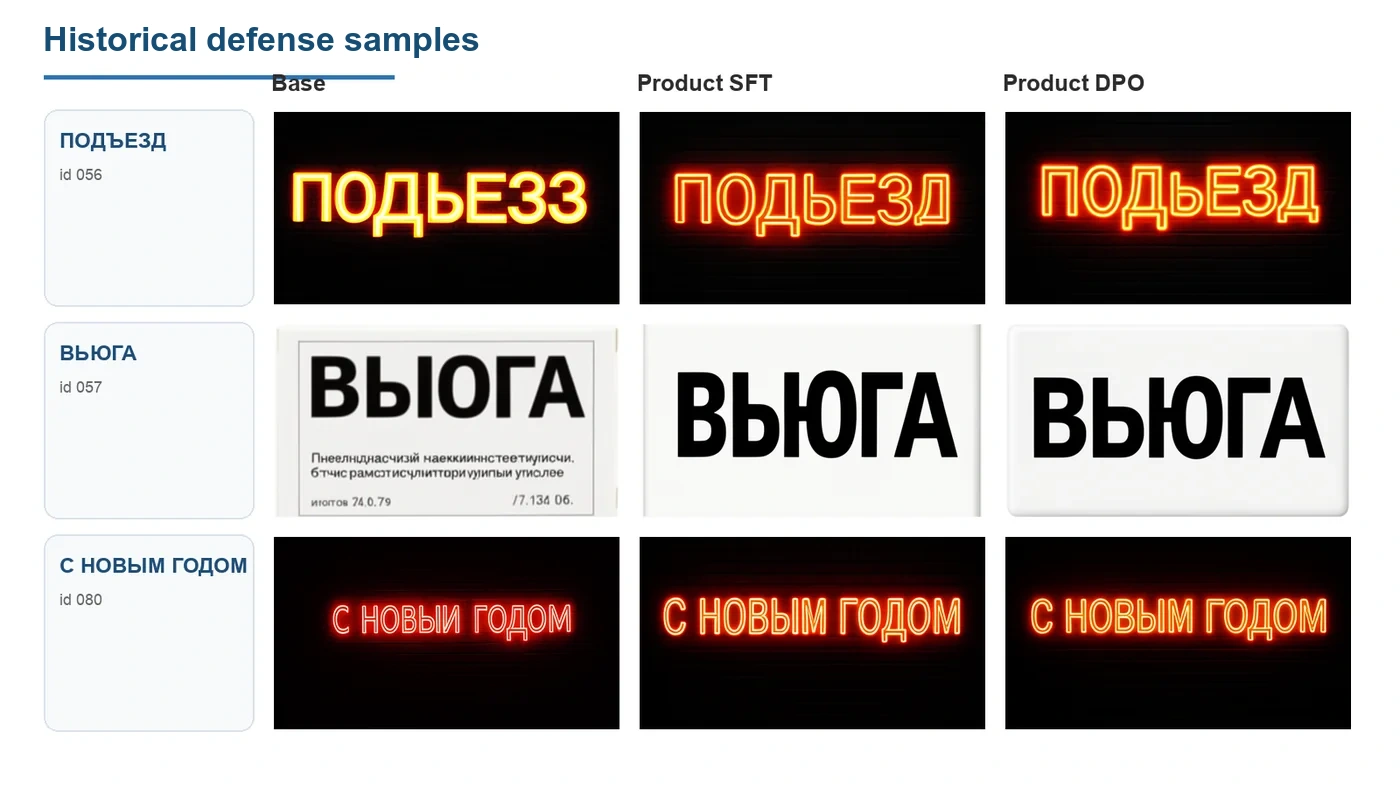
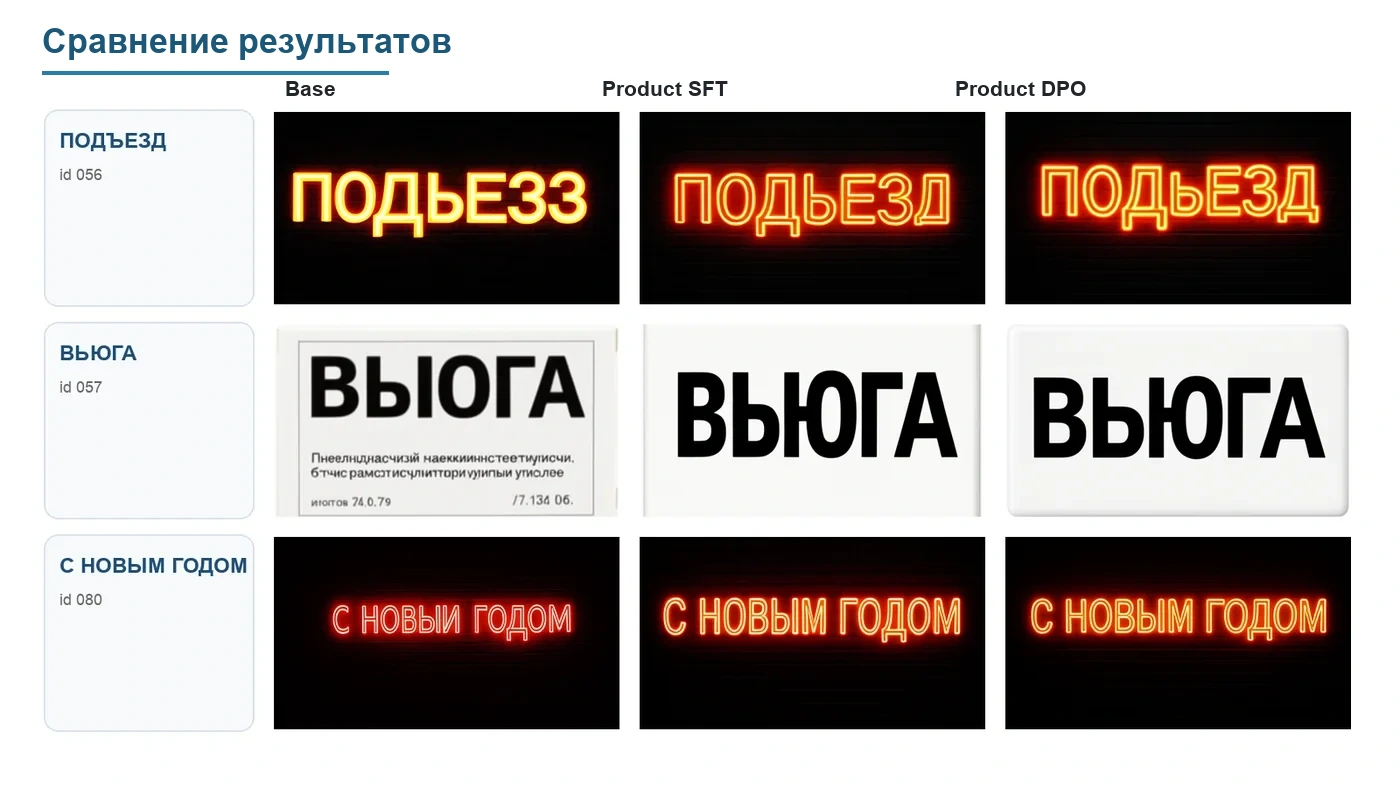
docs: sharpen project narrative and rename product metric

Changed region(s): [[0.0307, 0.0305, 0.3379, 0.122], [0.6757, 0.0915, 0.8293, 0.122], [0.43, 0.0915, 0.5529, 0.122]]

diff --git a/tests/test_runtime_preflight.py b/tests/test_runtime_preflight.py
@@ -382,7 +382,7 @@ def test_product_training_preflight_requires_canonical_thesis_formula(
     monkeypatch: pytest.MonkeyPatch,
 ) -> None:
     from scripts import preflight_runtime
-    from src.evaluation.reward_interface import ProductScoreFormula, thesis_product_formula
+    from src.evaluation.reward_interface import ProductScoreFormula, vlm_ocr_product_formula
     from src.runtime.manifests import create_run_manifest
     from src.scoring.pipeline import CANONICAL_SCORE_COLUMNS, write_score_schema_sidecar
 
@@ -443,7 +443,7 @@ def test_product_training_preflight_requires_canonical_thesis_formula(
     }
     write_score_schema_sidecar(
         scores,
-        formula=thesis_product_formula(),
+        formula=vlm_ocr_product_formula(),
         source_manifest_paths=(str(source_manifest.manifest_path),),
         primary_score="product",
         execution_metadata=execution,
@@ -471,7 +471,7 @@ def test_product_training_preflight_requires_canonical_thesis_formula(
     blocked = preflight_runtime.build_preflight_report(args)
 
     assert blocked["artifacts"]["ok"] is False
-    assert any("thesis_vlm_ocr_product_v1" in error for error in blocked["blocking_errors"])
+    assert any("vlm_ocr_product_v1" in error for error in blocked["blocking_errors"])
 
     neutral_scores = scores.with_name("scores.csv")
     scores.replace(neutral_scores)
@@ -489,11 +489,11 @@ def test_product_training_preflight_requires_canonical_thesis_formula(
     neutral_blocked = preflight_runtime.build_preflight_report(neutral_args)
 
     assert neutral_blocked["artifacts"]["ok"] is False
-    assert any("thesis_vlm_ocr_product_v1" in error for error in neutral_blocked["blocking_errors"])
+    assert any("vlm_ocr_product_v1" in error for error in neutral_blocked["blocking_errors"])
 
 
 def test_product_detection_reads_materialized_artifact_metadata(tmp_path: Path) -> None:
-    from scripts.preflight_runtime import _requires_thesis_product
+    from scripts.preflight_runtime import _requires_vlm_ocr_product
 
     scores = tmp_path / "outputs" / "generated" / "scores.csv"
     selected = tmp_path / "outputs" / "generated" / "selected_samples.jsonl"
@@ -518,7 +518,7 @@ def test_product_detection_reads_materialized_artifact_metadata(tmp_path: Path) 
         score_column="score",
     )
 
-    assert _requires_thesis_product(
+    assert _requires_vlm_ocr_product(
         config,
         {"scores_csv": scores, "selected_samples": selected},
     )
@@ -528,13 +528,13 @@ def test_product_detection_reads_materialized_artifact_metadata(tmp_path: Path) 
         json.dumps(
             {
                 "primary_score": "vlm",
-                "formula": {"name": "thesis_vlm_ocr_product_v1"},
+                "formula": {"name": "vlm_ocr_product_v1"},
             }
         ),
         encoding="utf-8",
     )
 
-    assert not _requires_thesis_product(config, {"scores_csv": scores})
+    assert not _requires_vlm_ocr_product(config, {"scores_csv": scores})
 
 
 @pytest.mark.parametrize("stage", ["sft", "dpo"])

diff --git a/tests/test_scoring_pipeline_contracts.py b/tests/test_scoring_pipeline_contracts.py
@@ -72,11 +72,11 @@ def test_pipeline_builds_canonical_row_with_product_missing_and_legacy_fields():
 
 
 def test_pipeline_primary_score_tracks_selected_reward() -> None:
-    from src.evaluation.reward_interface import thesis_product_formula
+    from src.evaluation.reward_interface import vlm_ocr_product_formula
     from src.scoring.pipeline import build_canonical_score_row
 
     evidence = {"score_vlm": 0.8, "score_ocr": 0.75, "ocr_detected": "ТЕСТ"}
-    formula = thesis_product_formula()
+    formula = vlm_ocr_product_formula()
 
     vlm_row = build_canonical_score_row(
         sample_id="p",
@@ -264,7 +264,7 @@ def test_score_images_main_builds_config_and_delegates_to_pipeline(monkeypatch, 
             vlm_model_revision=None,
             vlm_device="cuda",
             ocr_device="cpu",
-            product_formula="thesis",
+            product_formula="product",
             entropy_lambda=1.5,
             batch_size=1,
             resume=True,
@@ -304,12 +304,12 @@ def test_scoring_config_rejects_noop_batching_and_invalid_shards(tmp_path):
 
 
 def test_resume_rejects_formula_or_source_manifest_drift(tmp_path):
-    from src.evaluation.reward_interface import thesis_product_formula
+    from src.evaluation.reward_interface import vlm_ocr_product_formula
     from src.scoring.pipeline import _validate_resume_sidecar, write_score_schema_sidecar
 
     output = tmp_path / "scores.csv"
     output.write_text("id\n", encoding="utf-8")
-    formula = thesis_product_formula(scorer_versions={"vlm": "qwen@a"})
+    formula = vlm_ocr_product_formula(scorer_versions={"vlm": "qwen@a"})
     write_score_schema_sidecar(
         output,
         formula=formula,
@@ -321,7 +321,7 @@ def test_resume_rejects_formula_or_source_manifest_drift(tmp_path):
     with pytest.raises(ValueError, match="does not match"):
         _validate_resume_sidecar(
             output,
-            formula=thesis_product_formula(scorer_versions={"vlm": "qwen@b"}),
+            formula=vlm_ocr_product_formula(scorer_versions={"vlm": "qwen@b"}),
             primary_score="product",
             source_manifest_paths=("runs/a/manifest.json",),
             shard_idx=0,

diff --git a/scripts/preflight_runtime.py b/scripts/preflight_runtime.py
@@ -16,7 +16,7 @@ from src.runtime.config_io import RuntimeConfigError, load_stage_config
 from src.runtime.manifests import ManifestError, load_run_manifest
 from src.runtime.paths import resolve_stage_paths
 
-THESIS_PRODUCT_FORMULA_NAME = "thesis_vlm_ocr_product_v1"
+VLM_OCR_PRODUCT_FORMULA_NAME = "vlm_ocr_product_v1"
 
 CLI_STAGES = (
     "generate",
@@ -272,7 +272,7 @@ def _check_artifacts(
     else:
         report = validate_artifacts(HELPER_STAGES.get(stage, stage), paths)
     payload = _artifact_report_to_json(report)
-    if stage in {"sft", "dpo"} and config is not None and _requires_thesis_product(config, paths):
+    if stage in {"sft", "dpo"} and config is not None and _requires_vlm_ocr_product(config, paths):
         product_report = validate_artifacts(
             "evaluation_scores",
             {"scores_csv": paths["scores_csv"]},
@@ -296,7 +296,7 @@ def _check_artifacts(
     return payload
 
 
-def _requires_thesis_product(config: Any, paths: dict[str, Path]) -> bool:
+def _requires_vlm_ocr_product(config: Any, paths: dict[str, Path]) -> bool:
     experiment_name = str(getattr(config, "experiment_name", "")).casefold()
     scores_name = Path(str(getattr(config, "scores_csv", ""))).stem.casefold()
     score_column = str(getattr(config, "score_column", "")).casefold()
@@ -383,8 +383,8 @@ def _product_formula_errors(scores_csv: Path) -> list[str]:
     errors: list[str] = []
     if payload.get("primary_score") != "product":
         errors.append("Product training requires primary_score='product'")
-    if not isinstance(formula, dict) or formula.get("name") != THESIS_PRODUCT_FORMULA_NAME:
-        errors.append(f"Product training requires formula {THESIS_PRODUCT_FORMULA_NAME!r}")
+    if not isinstance(formula, dict) or formula.get("name") != VLM_OCR_PRODUCT_FORMULA_NAME:
+        errors.append(f"Product training requires formula {VLM_OCR_PRODUCT_FORMULA_NAME!r}")
         return errors
     if formula.get("aggregation") != "weighted_product":
         errors.append("Product training requires weighted_product aggregation")

diff --git a/src/evaluation/reward_interface.py b/src/evaluation/reward_interface.py
@@ -18,7 +18,7 @@ from typing import Any, Literal
 SCHEMA_VERSION = "reward-result/v1"
 METADATA_SCHEMA_VERSION = "reward-score-metadata/v1"
 DEFAULT_PRODUCT_FORMULA_NAME = "vlm_ocr_cer_entropy_exact_product_v1"
-THESIS_PRODUCT_FORMULA_NAME = "thesis_vlm_ocr_product_v1"
+VLM_OCR_PRODUCT_FORMULA_NAME = "vlm_ocr_product_v1"
 
 DEFAULT_PRODUCT_WEIGHTS: dict[str, float] = {
     "score_vlm": 0.35,
@@ -142,14 +142,14 @@ class ProductScoreFormula:
         }
 
 
-def thesis_product_formula(
+def vlm_ocr_product_formula(
     *,
     scorer_versions: Mapping[str, str] | None = None,
 ) -> ProductScoreFormula:
-    """Return the exact ``VLM × OCR`` formula used by the reported thesis runs."""
+    """Return the exact ``VLM × OCR`` formula used for Product selection."""
 
     return ProductScoreFormula(
-        name=THESIS_PRODUCT_FORMULA_NAME,
+        name=VLM_OCR_PRODUCT_FORMULA_NAME,
         weights={"score_vlm": 1.0, "score_ocr": 1.0},
         scorer_versions=scorer_versions or {},
         aggregation="weighted_product",

diff --git a/src/scoring/pipeline.py b/src/scoring/pipeline.py
@@ -27,7 +27,7 @@ from src.evaluation.reward_interface import (
     ProductScoreFormula,
     build_score_metadata,
     compute_product_score,
-    thesis_product_formula,
+    vlm_ocr_product_formula,
 )
 
 logger = logging.getLogger(__name__)
@@ -74,7 +74,7 @@ class ScoringConfig:
     vlm_model_revision: str | None = None
     vlm_device: Literal["cuda"] = "cuda"
     ocr_device: Literal["cpu", "gpu"] = "cpu"
-    product_formula: Literal["thesis", "diagnostic"] = "thesis"
+    product_formula: Literal["product", "diagnostic"] = "product"
     entropy_lambda: float = 1.0
     batch_size: int = 1
     resume: bool = False
@@ -481,8 +481,8 @@ def _formula_for_config(config: ScoringConfig) -> tuple[ProductScoreFormula, str
     if config.scorer in {"ocr", "both"}:
         scorer_versions["ocr"] = f"paddleocr-ru-entropy-lambda-{config.entropy_lambda}"
     formula = (
-        thesis_product_formula(scorer_versions=scorer_versions)
-        if config.product_formula == "thesis"
+        vlm_ocr_product_formula(scorer_versions=scorer_versions)
+        if config.product_formula == "product"
         else ProductScoreFormula(scorer_versions=scorer_versions)
     )
     primary_score = {"vlm": "vlm", "ocr": "ocr", "both": "product"}[config.scorer]

diff --git a/scripts/score_images.py b/scripts/score_images.py
@@ -90,10 +90,10 @@ def _build_parser() -> argparse.ArgumentParser:
     )
     parser.add_argument(
         "--product_formula",
-        choices=("thesis", "diagnostic"),
-        default="thesis",
+        choices=("product", "diagnostic"),
+        default="product",
         help=(
-            "Product formula: thesis is the reported VLM×OCR score; diagnostic uses the "
+            "Product formula: product is the VLM×OCR selection score; diagnostic uses the "
             "later five-component geometric formula."
         ),
     )

diff --git a/tests/test_evaluation_command_docs.py b/tests/test_evaluation_command_docs.py
@@ -18,7 +18,7 @@ def test_command_catalog_publishes_exact_cpu_safe_and_explicit_runtime_commands(
         "CPU-safe evaluation verification",
         "uv run pytest tests/test_evaluation_command_docs.py tests/test_evaluation_reward_interface.py tests/test_heldout_evaluation_harness.py tests/test_evaluation_slices_gold.py tests/test_evaluation_scoring_outputs.py tests/test_reward_diagnostics.py tests/test_thesis_outputs.py -q",
         "uv run python -m scripts.run_heldout_evaluation --config <heldout-config.json> --output-plan runs/evaluation/heldout-001/plan.json --markdown-summary runs/evaluation/heldout-001/plan.md",
-        "uv run python -m scripts.score_images --images_dir outputs/generated/images --text_embeds_dir outputs/generated/text_embeds --output_csv outputs/generated/scores.csv --scorer both --ocr_device cpu --product_formula thesis --manifest_path runs/scoring/manifest.json --source_manifest runs/generation/manifest.json --source_manifest runs/scoring/manifest.json",
+        "uv run python -m scripts.score_images --images_dir outputs/generated/images --text_embeds_dir outputs/generated/text_embeds --output_csv outputs/generated/scores.csv --scorer both --ocr_device cpu --product_formula product --manifest_path runs/scoring/manifest.json --source_manifest runs/generation/manifest.json --source_manifest runs/scoring/manifest.json",
         "phase6-score-file/v1",
         ".schema.json",
         "uv run python -c \"from src.runtime.artifacts import validate_artifacts; report = validate_artifacts('evaluation_scores', {'scores_csv': 'outputs/generated/scores.csv'}); raise SystemExit(0 if report.ok else 1)\"",
@@ -39,7 +39,7 @@ def test_readme_summarizes_reward_and_links_detailed_evaluation_docs() -> None:
 
     required_strings = [
         "docs/reward_evaluation.md",
-        "thesis_vlm_ocr_product_v1 = score_vlm × score_ocr",
+        "Multiplying them makes a candidate score highly only when both checks agree",
         "## Quick start",
         "docs/commands.md",
     ]

diff --git a/tests/test_evaluation_reward_interface.py b/tests/test_evaluation_reward_interface.py
@@ -134,9 +134,9 @@ def test_compute_product_score_combines_weighted_components_and_flags_thresholds
 
 
 def test_thesis_formula_is_exact_vlm_times_ocr_and_requires_both() -> None:
-    from src.evaluation.reward_interface import compute_product_score, thesis_product_formula
+    from src.evaluation.reward_interface import compute_product_score, vlm_ocr_product_formula
 
-    formula = thesis_product_formula(scorer_versions={"vlm": "qwen", "ocr": "paddle"})
+    formula = vlm_ocr_product_formula(scorer_versions={"vlm": "qwen", "ocr": "paddle"})
 
     complete = compute_product_score(
         {"score_vlm": 0.8, "score_ocr": 0.75, "exact_text_match": False},

diff --git a/tests/test_heldout_score_aggregation.py b/tests/test_heldout_score_aggregation.py
@@ -8,7 +8,7 @@ import json
 
 import pytest
 
-from src.evaluation.reward_interface import thesis_product_formula
+from src.evaluation.reward_interface import vlm_ocr_product_formula
 from src.scoring.pipeline import CANONICAL_SCORE_COLUMNS, write_score_schema_sidecar
 
 
@@ -95,7 +95,7 @@ def _write_scores(path, sample_ids, *, seed, common_manifest, formula=None):
     digest = hashlib.sha256(path.read_bytes()).hexdigest()
     write_score_schema_sidecar(
         path,
-        formula=formula or thesis_product_formula(),
+        formula=formula or vlm_ocr_product_formula(),
         source_manifest_paths=(str(common_manifest), str(generation_manifest)),
         primary_score="product",
         execution_metadata={

diff --git a/tests/test_merge_score_shards.py b/tests/test_merge_score_shards.py
@@ -7,7 +7,7 @@ import hashlib
 
 import pytest
 
-from src.evaluation.reward_interface import thesis_product_formula
+from src.evaluation.reward_interface import vlm_ocr_product_formula
 from src.scoring.pipeline import CANONICAL_SCORE_COLUMNS, write_score_schema_sidecar
 
 
@@ -39,7 +39,7 @@ def _write_shard(
     digest = hashlib.sha256(path.read_bytes()).hexdigest()
     write_score_schema_sidecar(
         path,
-        formula=thesis_product_formula(),
+        formula=vlm_ocr_product_formula(),
         source_manifest_paths=("runs/generation/manifest.json",),
         primary_score="product",
         execution_metadata={

diff --git a/tests/test_runtime_docs.py b/tests/test_runtime_docs.py
@@ -83,7 +83,7 @@ def test_command_catalog_materializes_selection_before_sft() -> None:
     required_strings = [
         "uv run python -m scripts.generate_images",
         "uv run python -m scripts.score_images",
-        "--product_formula thesis",
+        "--product_formula product",
         "uv run python -m scripts.materialize_training_data",
         "uv run accelerate launch --config_file configs/accelerate/single_gpu.yaml",
         "LEFT_MANIFEST=",

diff --git a/tests/test_thesis_outputs.py b/tests/test_thesis_outputs.py
@@ -542,7 +542,7 @@ def _write_canonical_scores(
         "schema_version": "reward-score-metadata/v1",
         "score_file_schema_version": "phase6-score-jsonl/v1",
         "formula": {
-            "name": "thesis_vlm_ocr_product_v1",
+            "name": "vlm_ocr_product_v1",
             "weights": {"score_vlm": 1.0, "score_ocr": 1.0},
             "thresholds": {},
             "scorer_versions": {"vlm": "test@revision", "ocr": "test@revision"},